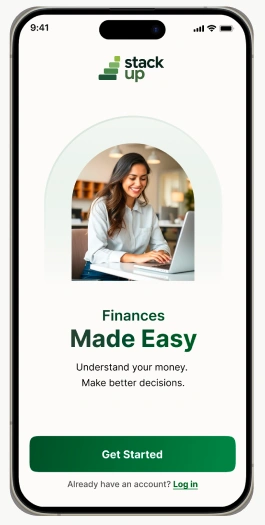
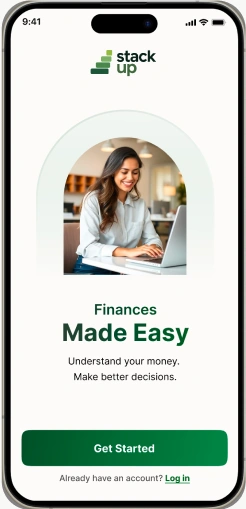
Fix phone crops at the pixel level; enforce exact 60px/20px page grid
Cover phones: re-cropped all 4 phone images pixel-tight to their real
bezel edges, found by scanning the source screenshot for the bezel's
actual dark pixels rather than "anything that differs from the page
background" (which also caught each phone's soft drop shadow and left
prior crops padded with shadow-tail background, still visible as a
faint box behind each phone). Recomputed the shared bounding-box
percentages the composition uses from these new crop dimensions. Zero
background margin remains inside any of the four source images now.

Layout: rebuilt the shared Container with no max-width at all, so
every section's content sits exactly 60px from the viewport edge on
desktop/tablet and ~20px on mobile at any width, rather than a centered
box that happened to leave a particular margin at one specific
viewport size. Measured directly on the rendered page: all 5 sections'
content edges are 60px/60px at 1440 and 1024px, 20px/20px at 390px.

Claude-Session: https://claude.ai/code/session_01CvXyHwVeWoPLiFrqvSQd6F

diff --git a/components/stackup/cover-section.tsx b/components/stackup/cover-section.tsx
@@ -21,20 +21,26 @@ import { Container } from "@/components/stackup/container";
  * cards instead of floating phones. Clipping to a rounded corner and
  * shadowing the clipped container instead reads as a phone, not a box.
  *
- * "confidence-jar" and "wallet" are cropped exactly as far as the
- * source screenshot itself shows them — the reference frame cuts the
- * first off at its own right edge and the second at its own bottom
- * edge, so there is no more of either phone to recover without a
- * fresh export. "confidence-jar" was re-cropped tight to its actual
- * right edge (was previously a much wider box padded out with dead
- * background space plus a stray scrollbar artifact from the source
- * screenshot).
+ * Every crop is now pixel-tight to the phone's own bezel on all four
+ * sides — found by scanning the source screenshot for the bezel's
+ * actual dark pixels (not just "anything that differs from the page
+ * background", which also catches each phone's soft drop shadow and
+ * so would have left a crop padded with shadow-tail background). There
+ * is zero background margin left inside any of these four images.
+ *
+ * "confidence-jar" and "wallet" are still cropped exactly as far as
+ * the source screenshot itself shows them — the reference frame cuts
+ * the first off at its own right edge and the second at its own
+ * bottom edge (confirmed by inspecting the pixels right at each
+ * screenshot edge: real phone bezel right up to the last row/column,
+ * not fading background), so there is no more of either phone to
+ * recover without a fresh export.
  */
 const PHONES = [
-  { src: "/images/stackup/cover-phone-onboarding.webp", box: { left: 0, top: 16.5, width: 29.9, height: 64.2 }, z: 3 },
-  { src: "/images/stackup/cover-phone-starting-point.webp", box: { left: 30.5, top: 0, width: 29.4, height: 50.1 }, z: 2 },
-  { src: "/images/stackup/cover-phone-confidence-jar.webp", box: { left: 63.3, top: 19.0, width: 23.2, height: 60.5 }, z: 1 },
-  { src: "/images/stackup/cover-phone-wallet.webp", box: { left: 30.5, top: 58.1, width: 29.4, height: 41.9 }, z: 2 },
+  { src: "/images/stackup/cover-phone-onboarding.webp", box: { left: 0, top: 16.1, width: 32.6, height: 63.1 }, z: 3 },
+  { src: "/images/stackup/cover-phone-starting-point.webp", box: { left: 35.7, top: 0, width: 32.9, height: 48.8 }, z: 2 },
+  { src: "/images/stackup/cover-phone-confidence-jar.webp", box: { left: 72.1, top: 15.9, width: 27.9, height: 63.1 }, z: 1 },
+  { src: "/images/stackup/cover-phone-wallet.webp", box: { left: 35.8, top: 57.7, width: 32.4, height: 42.3 }, z: 2 },
 ] as const;
 
 export function CoverSection() {
@@ -93,7 +99,7 @@ export function CoverSection() {
           </p>
         </div>
 
-        <div className="relative z-10 aspect-[885/818] w-full max-w-md sm:max-w-lg lg:max-w-none lg:flex-1">
+        <div className="relative z-10 aspect-[754/807] w-full max-w-md sm:max-w-lg lg:max-w-none lg:flex-1">
           {PHONES.map((phone) => (
             <div
               key={phone.src}

diff --git a/components/stackup/container.tsx b/components/stackup/container.tsx
@@ -1,12 +1,17 @@
 import type { ReactNode } from "react";
 
 /**
- * The one horizontal content grid every Stack Up section shares —
- * same max-width, same side padding, at every breakpoint. Sections
- * used to each pick their own max-width (max-w-4xl for some, max-w-6xl
- * for others) with identical padding, which put their content edges at
- * different horizontal positions once centered — this is what actually
- * fixes that, rather than nudging individual sections' margins.
+ * The one horizontal content grid every Stack Up section shares.
+ *
+ * Deliberately has NO max-width: side margins are exactly 60px on
+ * desktop, ~20px on mobile, at any viewport width — not a centered
+ * box that happens to leave 60px at one particular width. Content
+ * width is always `100vw - 120px` on desktop (`- 40px` on mobile),
+ * per spec. A centered inner element (e.g. the question section's
+ * pull-quote) adds its own `mx-auto max-w-*` wrapper *inside* this
+ * container rather than this container itself being narrowed — that
+ * keeps its section's own edges on the same 60px grid as every other
+ * section while still centering that one piece of content.
  */
 export function Container({
   children,
@@ -16,7 +21,7 @@ export function Container({
   className?: string;
 }) {
   return (
-    <div className={`mx-auto w-full max-w-6xl px-6 sm:px-10 lg:px-16 ${className}`}>
+    <div className={`w-full px-5 sm:px-10 lg:px-[60px] ${className}`}>
       {children}
     </div>
   );
